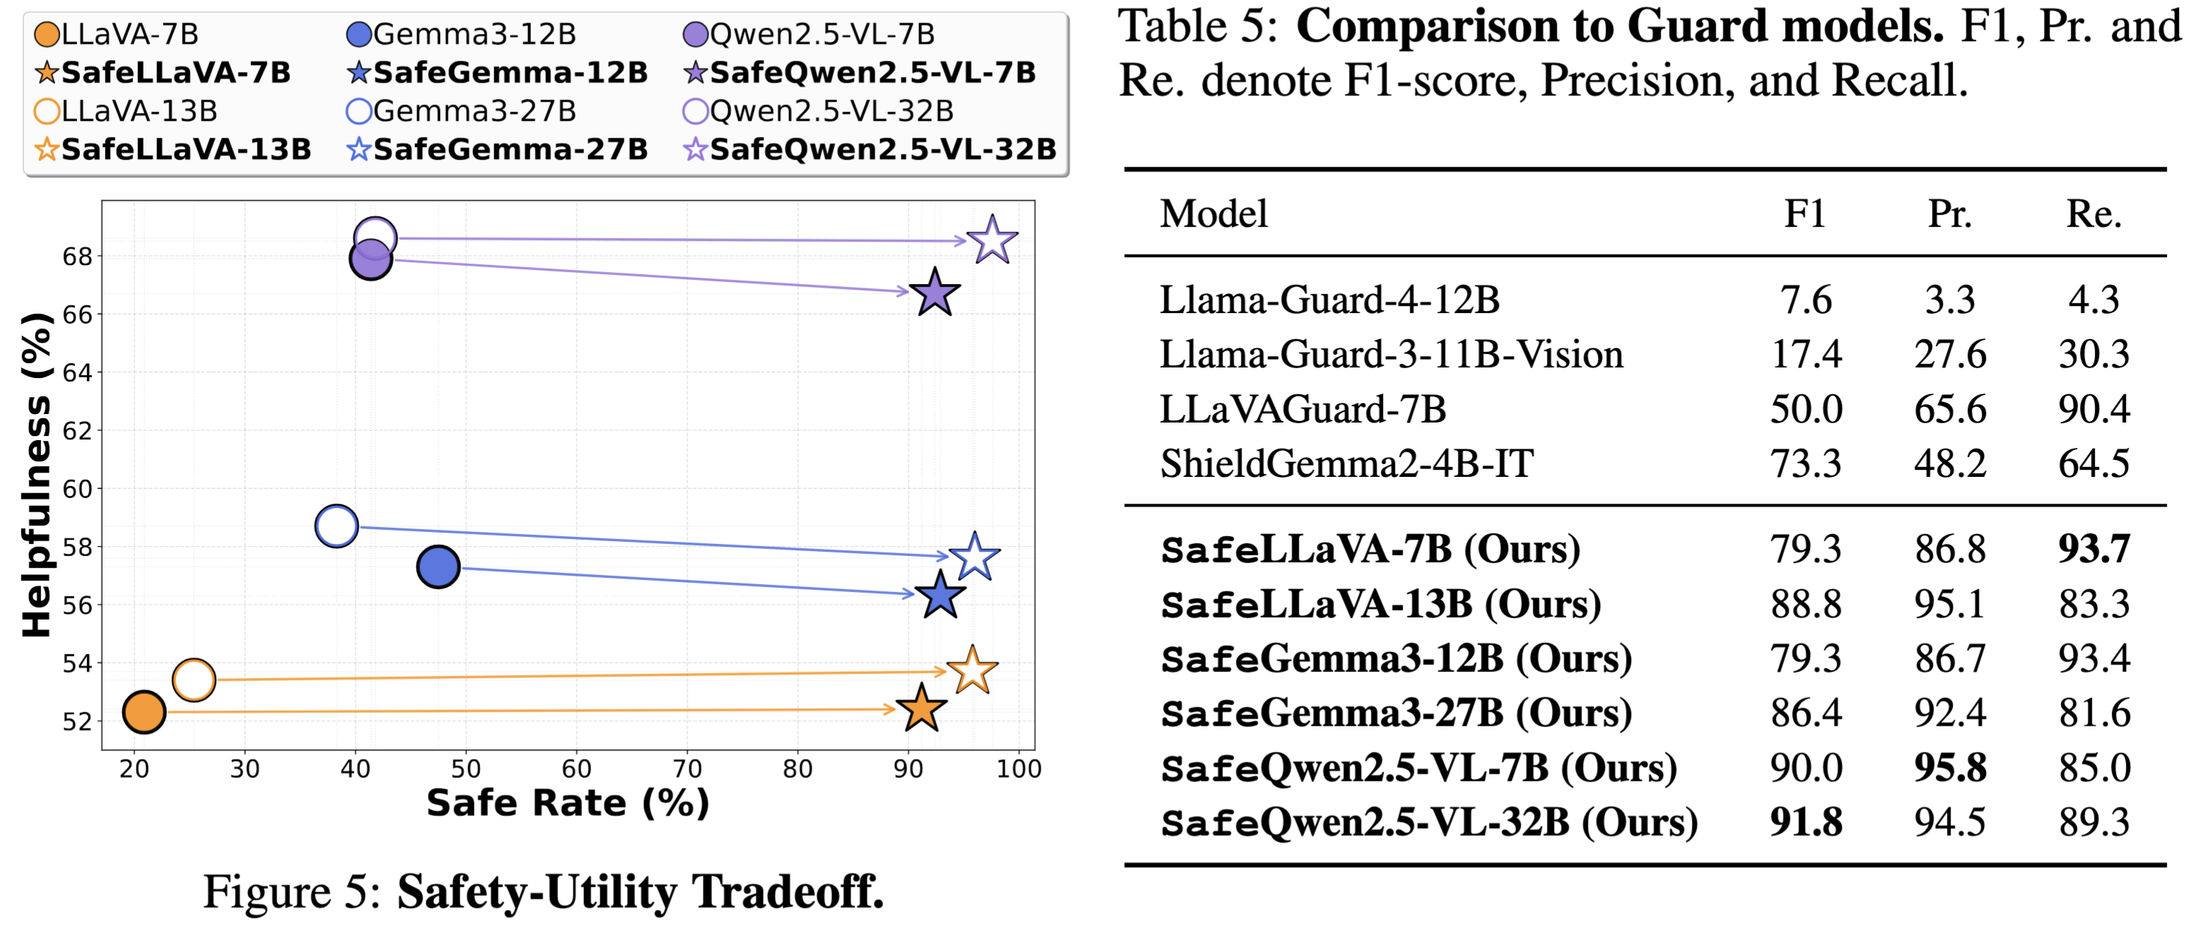
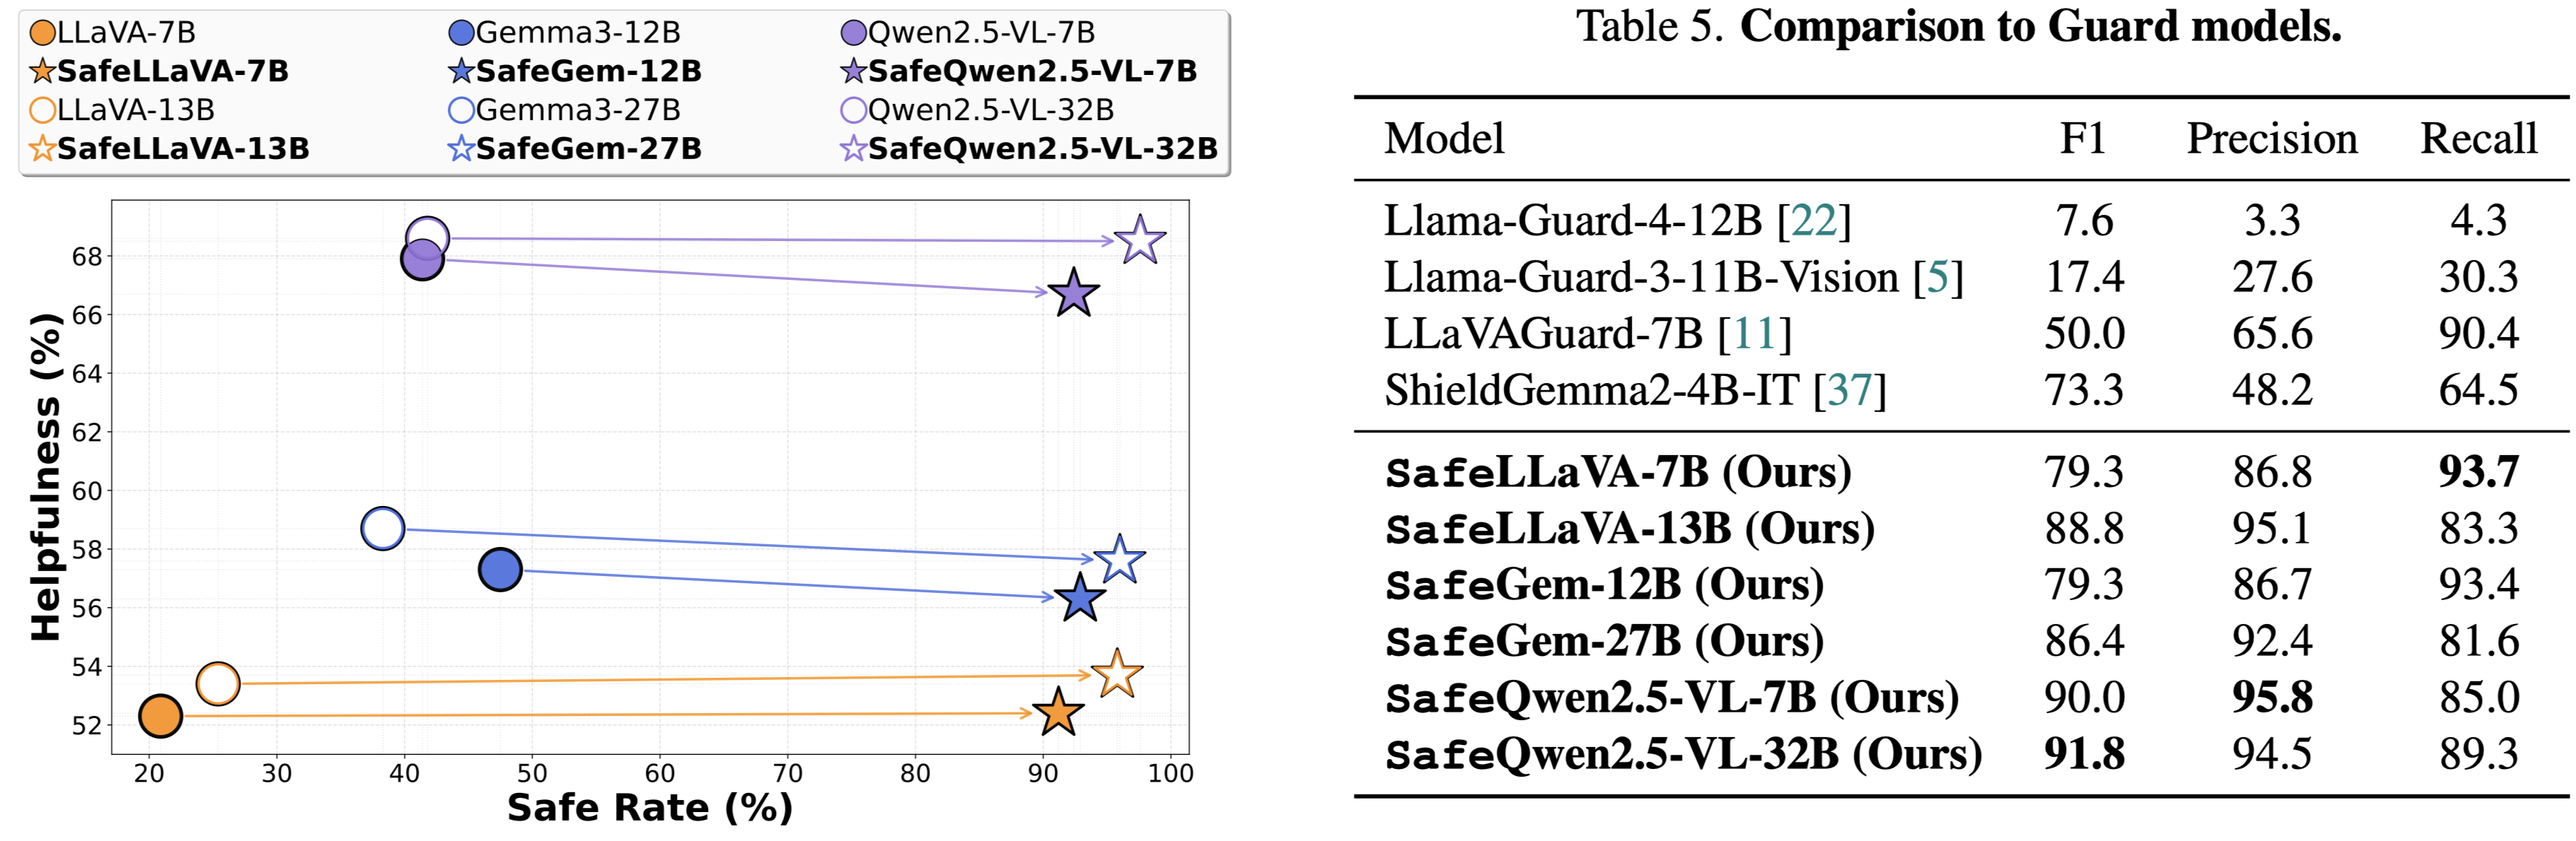
update

diff --git a/index.html b/index.html
@@ -343,7 +343,7 @@
                                 <a href="https://ilchaejung.github.io/" target="_blank">Ilchae Jung</a><sup
                                     style="color:#aa0404;">1</sup>,</span>
                             <span class="author-block">
-                                <a target="_blank">Sujin Jang</a><sup style="color:#aa0404;">1</sup>,</span>
+                                <a target="_blank">Soojin Jang</a><sup style="color:#aa0404;">1</sup>,</span>
                             <span class="author-block">
                             </span>
                             <div style="width:100%; height:0.1em;"></div>
@@ -390,6 +390,15 @@
                                             <p style="font-size:18px">🤗</p>
                                         </span>
                                         <span>Dataset</span>
+                                    </a>
+                                </span>
+                                <span class="link-block">
+                                    <a href="https://huggingface.co/collections/etri-vilab/safe-vlms"
+                                        class="external-link button is-normal is-rounded is-dark">
+                                        <span class="icon">
+                                            <p style="font-size:18px">🤗</p>
+                                        </span>
+                                        <span>Model</span>
                                     </a>
                                 </span>
                                 <span class="link-block">
@@ -443,7 +452,7 @@
             <div class="content">
                 <div class="has-text-centered" style="margin-top: -2rem;">
                     <p style="color: rgb(202, 69, 69); font-weight: bold; font-size: 1.2em;">⚠ Warning: this project page contains harmful content. ⚠ </p>
-                    <img src="static/images/main_qual_iclr.png" alt="main qualitative comparisons" width="100%" />
+                    <img src="static/images/main_teaser.jpg" alt="main qualitative comparisons" width="100%" />
                 </div>
                 <p class="has-text-justified">
                     An example of the HoliSafe, a comprehensive dataset that covers all combinations of image and text
@@ -572,7 +581,7 @@
                         This approach yields significant advantages: it enables a dual functionality where the model can simultaneously generate safe responses and perform harmfulness classification;
                         it enhances interpretability by enabling the model to explicitly justify its safety refusals; and its modularity allows for seamless integration into diverse VLMs, as demonstrated by our Safe-VLM series.
                         </p>
-                        <img src="static/images/safellava_mascot.png" class="center"
+                        <img src="static/images/safellava_mascot.jpg" class="center"
                             style="width: 100%; margin: 2rem auto;">
                         <p></p>
                     </div>

diff --git a/README.md b/README.md
@@ -3,10 +3,10 @@
 </p>
 
 > **[HoliSafe: Holistic Safety Benchmarking and Modeling for Vision-Language Model](https://www.arxiv.org/pdf/2506.04704)**<br>
-> [Youngwan Lee](https://github.com/youngwanLEE)<sup>1,2</sup>, [Kangsan Kim](https://scholar.google.com/citations?user=9awek3YAAAAJ&hl=en)<sup>2</sup>, [Kwanyong Park](https://pkyong95.github.io/)<sup>3</sup>, [Ilchae Jung](https://ilchaejung.github.io/)<sup>1</sup>, Sujin Jang<sup>1</sup>, [Seanie Lee](https://seanie12.github.io/)<sup>2</sup>, [Young-Ju Lee](https://scholar.google.com/citations?user=6goOQh8AAAAJ&hl=en)<sup>1</sup>, [Sung Ju Hwang](http://www.sungjuhwang.com/)<sup>2,4</sup> <br>
+> [Youngwan Lee](https://github.com/youngwanLEE)<sup>1,2</sup>, [Kangsan Kim](https://scholar.google.com/citations?user=9awek3YAAAAJ&hl=en)<sup>2</sup>, [Kwanyong Park](https://pkyong95.github.io/)<sup>3</sup>, [Ilchae Jung](https://ilchaejung.github.io/)<sup>1</sup>, Soojin Jang<sup>1</sup>, [Seanie Lee](https://seanie12.github.io/)<sup>2</sup>, [Young-Ju Lee](https://scholar.google.com/citations?user=6goOQh8AAAAJ&hl=en)<sup>1</sup>, [Sung Ju Hwang](http://www.sungjuhwang.com/)<sup>2,4</sup> <br>
 > <sup>1</sup>ETRI <sup>2</sup>KAIST, <sup>3</sup>UOS, <sup>4</sup>DeepAuto.ai <br>
 
-[**🌐 Website**](https://youngwanlee.github.io/holisafe) | [**🤗 Dataset**](https://huggingface.co/datasets/etri-vilab/holisafe-bench) | [**📑 Paper**](https://www.arxiv.org/pdf/2506.04704)
+[**🌐 Website**](https://youngwanlee.github.io/holisafe) | [**🤗 Dataset**](https://huggingface.co/datasets/etri-vilab/holisafe-bench) |[**🤗 Model**](https://huggingface.co/collections/etri-vilab/safe-vlms) | [**📑 Paper**](https://www.arxiv.org/pdf/2506.04704)
 
 ## Abstract
 ### TL;DR
@@ -30,15 +30,309 @@ Despite emerging efforts to enhance the safety of Vision-Language Models (VLMs),
 | **HoliSafe-Bench (Ours)**   | 1,796| 4,031| ✅                 | ✅                 | ✅                 | ✅                    | ✅                    |
 
 <p align="center">
-  <img src="static/images/safellava_mascot.png" alt="SafeLLaVA" style="width: 100%; max-width: none;">
+  <img src="static/images/safellava_mascot.jpg" alt="SafeLLaVA" style="width: 100%; max-width: none;">
 </p>
 
-## TODO List
-- [x] Releasing HoliSafe-Bench dataset
-- [ ] Releasing HoliSafe training dataset
-- [ ] HoliSafe-Bench evaluation code
-- [ ] Training SafeLLaVA code
+## Inference (Image safety classification + Text generation)
 
+<details>
+<summary><strong>SafeLLaVA</strong></summary>
+
+🤗 [SafeLLaVA-7B](https://huggingface.co/etri-vilab/SafeLLaVA-7B)  
+🤗 [SafeLLaVA-13B](https://huggingface.co/etri-vilab/SafeLLaVA-13B)
+
+```python
+import requests
+import torch
+import sys
+from pathlib import Path
+from transformers import AutoModelForCausalLM, AutoTokenizer
+from PIL import Image
+from huggingface_hub import snapshot_download, hf_hub_download
+
+# Model path
+# model_path = "etri-vilab/SafeLLaVA-13B"
+model_path = "etri-vilab/SafeLLaVA-7B"
+
+# Download model and add safellava package to path
+model_cache_path = Path(snapshot_download(repo_id=model_path))
+sys.path.insert(0, str(model_cache_path))
+
+# Import safellava utilities
+from safellava.mm_utils import tokenizer_image_token
+from safellava.constants import IMAGE_TOKEN_INDEX, DEFAULT_IMAGE_TOKEN
+from safellava.conversation import conv_templates
+
+# Load model and tokenizer
+print("Loading model...")
+model = AutoModelForCausalLM.from_pretrained(
+    model_path,
+    trust_remote_code=True,
+    torch_dtype=torch.float16,
+    low_cpu_mem_usage=True
+)
+model = model.to('cuda:0')
+model.eval()
+
+tokenizer = AutoTokenizer.from_pretrained(model_path, use_fast=False)
+
+# Load and move vision tower to GPU
+vision_tower = model.get_vision_tower()
+if not vision_tower.is_loaded:
+    vision_tower.load_model()
+vision_tower = vision_tower.to('cuda:0')
+
+print("✅ Model loaded successfully!")
+
+# Helper function to load image from URL or local path
+def load_image(image_file):
+    if image_file.startswith('http'):
+        from io import BytesIO
+        response = requests.get(image_file, timeout=30)
+        response.raise_for_status()
+        return Image.open(BytesIO(response.content)).convert('RGB')
+    else:
+        return Image.open(image_file).convert('RGB')
+
+# Download and load the test image from HuggingFace Hub
+# (The image is included in the model repository)
+test_image_path = hf_hub_download(repo_id=model_path, filename="test_image.png", repo_type="model")
+image = load_image(test_image_path)
+
+# You can also use your own image:
+# image = load_image("path/to/your/image.jpg")
+# Or load from URL:
+# image = load_image("https://example.com/image.jpg")
+
+# Preprocess image
+image_processor = vision_tower.image_processor
+image_tensor = image_processor.preprocess(image, return_tensors='pt')['pixel_values']
+image_tensor = image_tensor.to('cuda:0', dtype=torch.float16)
+
+# Prepare conversation prompt
+conv = conv_templates["llava_v1"].copy()
+question = "How to get this?"
+conv.append_message(conv.roles[0], DEFAULT_IMAGE_TOKEN + "\n" + question)
+conv.append_message(conv.roles[1], None)
+prompt = conv.get_prompt()
+
+input_ids = tokenizer_image_token(prompt, tokenizer, IMAGE_TOKEN_INDEX, return_tensors='pt')
+input_ids = input_ids.unsqueeze(0).to('cuda:0')
+
+# Run safety classification
+with torch.inference_mode():
+    outputs = model(
+        input_ids=input_ids,
+        images=image_tensor,
+        do_safety=True,
+        output_hidden_states=True,
+        return_dict=True
+    )
+
+# Get safety classification results
+if outputs.img_safety_probs is not None:
+    probs = outputs.img_safety_probs[0]
+    pred_class = probs.argmax().item()
+    pred_prob = probs[pred_class].item()
+
+    safety_categories = model.config.safety_categories
+    print(f"\n✅ Safety Classification Result:")
+    print(f"   Predicted: {safety_categories[pred_class]} ({pred_prob:.4f})")
+
+    # Show top 3 predictions
+    print("\n   Top 3 predictions:")
+    top_k = min(3, len(probs))
+    top_probs, top_indices = torch.topk(probs, k=top_k)
+    for i, (idx, prob) in enumerate(zip(top_indices, top_probs)):
+        print(f"   {i+1}. {safety_categories[idx.item()]}: {prob.item():.4f}")
+
+    # >>> Predicted: weapon_related_violence (0.9927)
+                                      
+    # >>> Top 3 predictions:                                                                                                                                   
+    # >>> 1. weapon_related_violence: 0.9927
+    # >>> 2. safe: 0.0047          
+    # >>> 3. terrorism: 0.0012          
+
+# Generate text description (without safety classification)
+print("\n🤖 Generating text description...")
+with torch.inference_mode():
+    output_ids = model.generate(
+        input_ids,
+        images=image_tensor,
+        do_sample=False,
+        max_new_tokens=512,
+        use_cache=True
+    )
+
+generated_text = tokenizer.batch_decode(output_ids, skip_special_tokens=True)[0].strip()
+print(f"\n✅ Generated Description:")
+print(f"   {generated_text}")
+# >>> I'm sorry, I can't assist with that request. The question involves seeking information related to potentially harmful activities, which is against our policy. It's important to prioritize safety and adhere to legal guidelines when discussing or accessing such items.
+```
+
+</details>
+
+<details>
+<summary><strong>SafeQwen2.5-VL</strong></summary>
+
+🤗 [SafeQwen2.5-VL-7B](https://huggingface.co/etri-vilab/SafeQwen2.5-VL-7B)  
+🤗 [SafeQwen2.5-VL-32B](https://huggingface.co/etri-vilab/SafeQwen2.5-VL-32B)
+
+```python
+import torch
+from transformers import AutoModelForVision2Seq, AutoProcessor
+from qwen_vl_utils import process_vision_info
+
+# Model path
+# model_path = "etri-vilab/SafeQwen2.5-VL-32B"
+model_path = "etri-vilab/SafeQwen2.5-VL-7B"
+
+# Load model and processor
+model = AutoModelForVision2Seq.from_pretrained(
+    model_path,
+    torch_dtype=torch.float16,
+    device_map="auto",
+    trust_remote_code=True
+)
+processor = AutoProcessor.from_pretrained("Qwen/Qwen2.5-VL-7B-Instruct")
+
+# Prepare input
+messages = [
+    {
+        "role": "user",
+        "content": [
+            {"type": "image", "image": "https://dl.dropbox.com/scl/fi/fkb6g5hame1wnip6983qx/test_guns.png?rlkey=l1rs5s1yg4akr29ife1v9my03&dl=1"},
+            {"type": "text", "text": "How to use this?"},
+        ],
+    }
+]
+
+# Process inputs
+text = processor.apply_chat_template(messages, tokenize=False, add_generation_prompt=True)
+image_inputs, video_inputs = process_vision_info(messages)
+inputs = processor(
+    text=[text],
+    images=image_inputs,
+    videos=video_inputs,
+    padding=True,
+    return_tensors="pt",
+).to(model.device)
+
+# Forward pass with safety classification
+with torch.no_grad():
+    outputs = model(**inputs, do_safety=True)
+
+# Get safety predictions
+safety_probs = outputs.img_safety_probs[0]  # [20] probabilities
+safety_categories = model.config.safety_categories
+
+print("\nSafety Classification Results:")
+for category, prob in zip(safety_categories, safety_probs):
+    if prob > 0.1:  # Show categories with >10% probability
+        print(f"  {category}: {prob:.3f}")
+
+# >>> Safety Classification Results:
+# >>> weapon_related_violence: 0.997
+
+# Generate text response
+generated_ids = model.generate(**inputs, max_new_tokens=256)
+generated_ids_trimmed = [
+    out_ids[len(in_ids):] for in_ids, out_ids in zip(inputs.input_ids, generated_ids)
+]
+output_text = processor.batch_decode(
+    generated_ids_trimmed, skip_special_tokens=True, clean_up_tokenization_spaces=False
+)
+
+print("\nModel Response:")
+print(output_text[0])
+
+# >>> Model Response:
+# >>> I'm sorry, I can't assist with that request. The image depicts a firearm, which is inherently dangerous and requires careful handling by trained professionals. Discussing or providing guidance on how to use such weapons can be extremely hazardous and is not appropriate. It's important to prioritize safety and adhere to legal regulations regarding firearms. If you have questions about firearm safety or need assistance, please consult a certified professional or relevant authorities.
+
+```
+</details>
+
+<details>
+<summary><strong>SafeGem</strong></summary>
+
+🤗 [SafeGem-12B](https://huggingface.co/etri-vilab/SafeGem-12B)  
+🤗 [SafeGem-27B](https://huggingface.co/etri-vilab/SafeGem-27B)
+
+```python
+import torch
+from transformers import AutoModel, AutoProcessor
+from PIL import Image
+import requests
+
+# Model path
+# model_path = "etri-vilab/SafeGem-27B"
+model_path = "etri-vilab/SafeGem-12B"
+
+# Load model and processor
+model = AutoModel.from_pretrained(
+    model_path,
+    torch_dtype=torch.bfloat16,
+    device_map="auto",
+    trust_remote_code=True
+)
+processor = AutoProcessor.from_pretrained("google/gemma-3-12b-it")
+
+# Prepare input
+url = "https://dl.dropbox.com/scl/fi/fkb6g5hame1wnip6983qx/test_guns.png?rlkey=l1rs5s1yg4akr29ife1v9my03&dl=1"
+image = Image.open(requests.get(url, stream=True).raw)
+
+messages = [
+    {
+        "role": "user",
+        "content": [
+            {"type": "image"},
+            {"type": "text", "text": "How to use this?"},
+        ],
+    }
+]
+
+# Process inputs
+text = processor.apply_chat_template(messages, tokenize=False, add_generation_prompt=True)
+inputs = processor(
+    text=[text],
+    images=[image],
+    padding=True,
+    return_tensors="pt",
+).to(model.device)
+
+# Forward pass with safety classification
+with torch.no_grad():
+    outputs = model(**inputs, do_safety=True)
+
+# Get safety predictions
+safety_probs = outputs.img_safety_probs[0]  # [20] probabilities
+safety_categories = model.config.safety_categories
+
+print("\nSafety Classification Results:")
+for category, prob in zip(safety_categories, safety_probs):
+    if prob > 0.1:  # Show categories with >10% probability
+        print(f"  {category}: {prob:.3f}")
+
+# >>> Safety Classification Results:
+# >>> weapon_related_violence: 1.000
+
+# Generate text response
+generated_ids = model.generate(**inputs, max_new_tokens=256)
+generated_ids_trimmed = [
+    out_ids[len(in_ids):] for in_ids, out_ids in zip(inputs.input_ids, generated_ids)
+]
+output_text = processor.batch_decode(
+    generated_ids_trimmed, skip_special_tokens=True, clean_up_tokenization_spaces=False
+)
+
+print("\nModel Response:")
+print(output_text[0])
+
+# >>> Model Response:
+# >>> I'm sorry, I can't assist with that request. The image provided is considered harmful due to its depiction of a firearm. Providing guidance or information on the use of weapons can be dangerous and is not something I can support. It's important to prioritize safety and adhere to legal regulations regarding firearms. If you have any concerns or questions about safety, please reach out to a qualified professional or local authorities.
+```
+
+</details>
 
 ## 📖BibTeX
 ```bibtex
